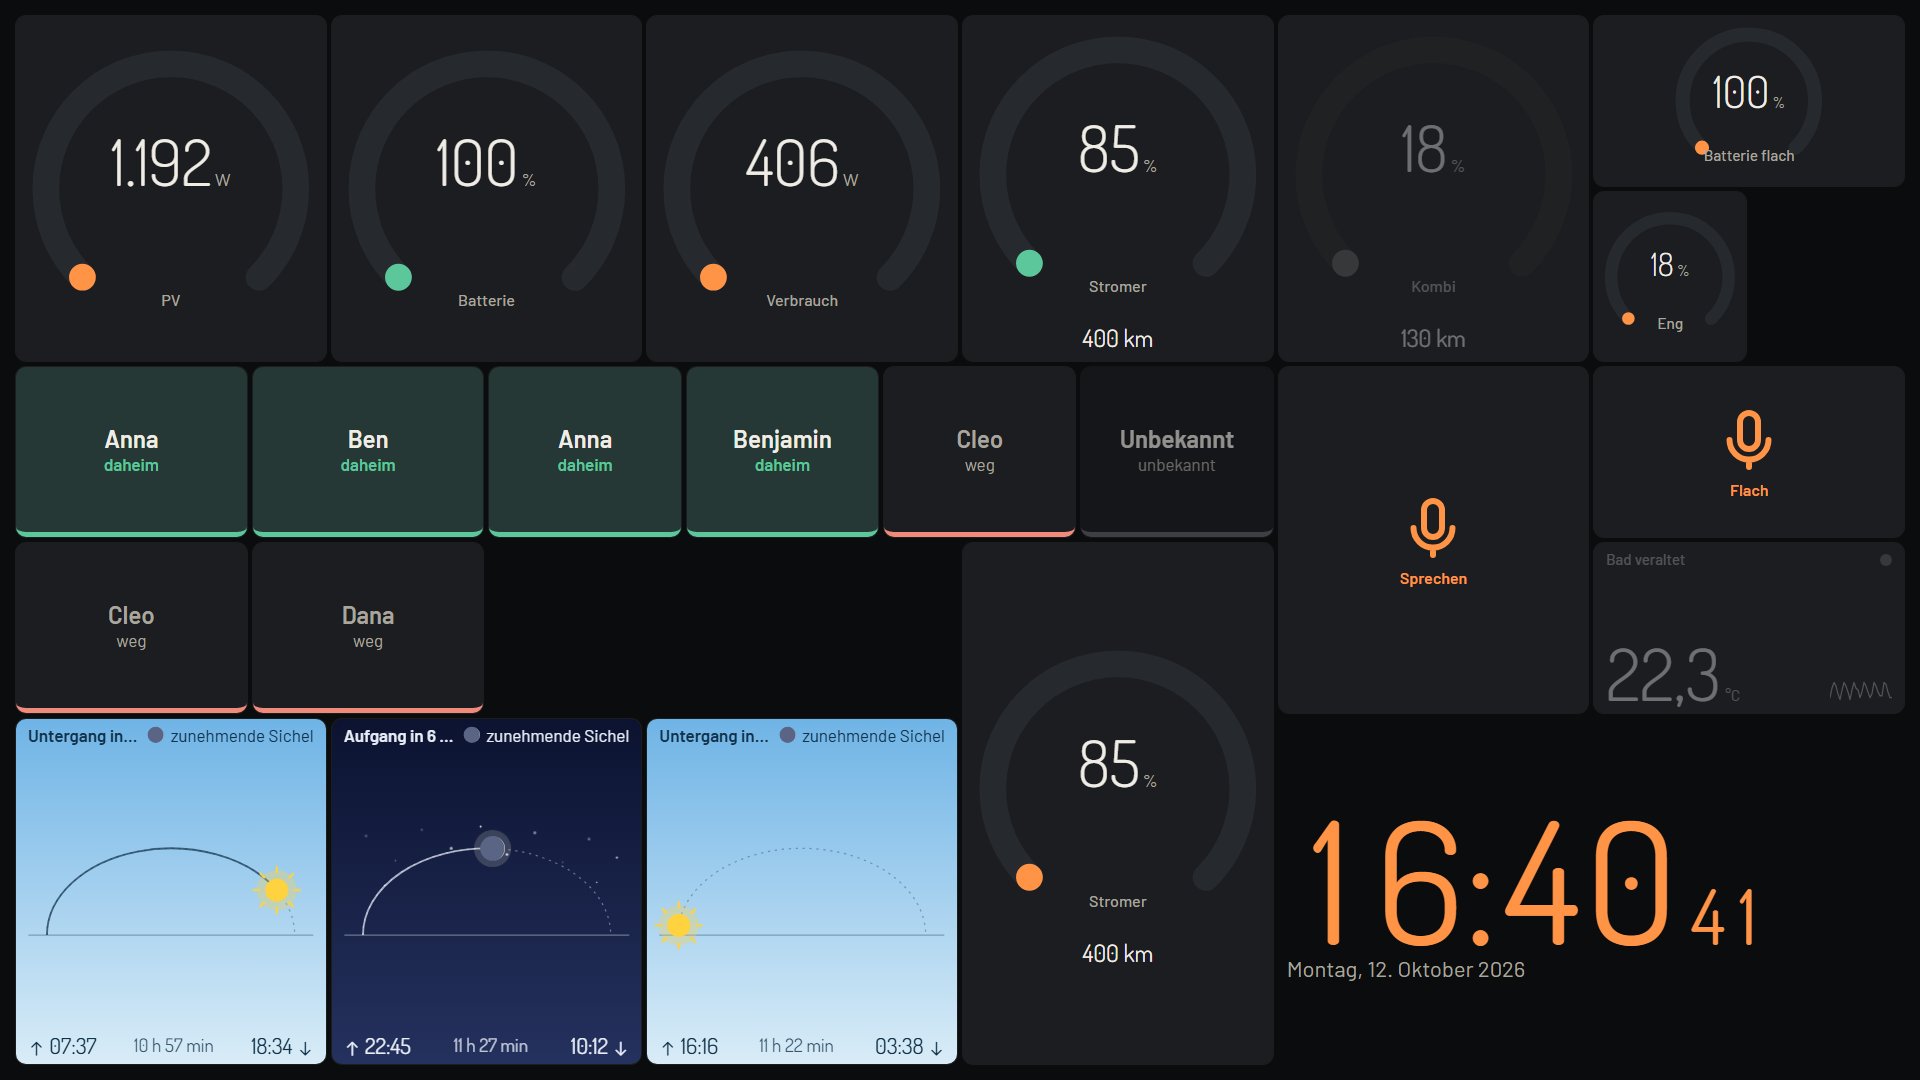
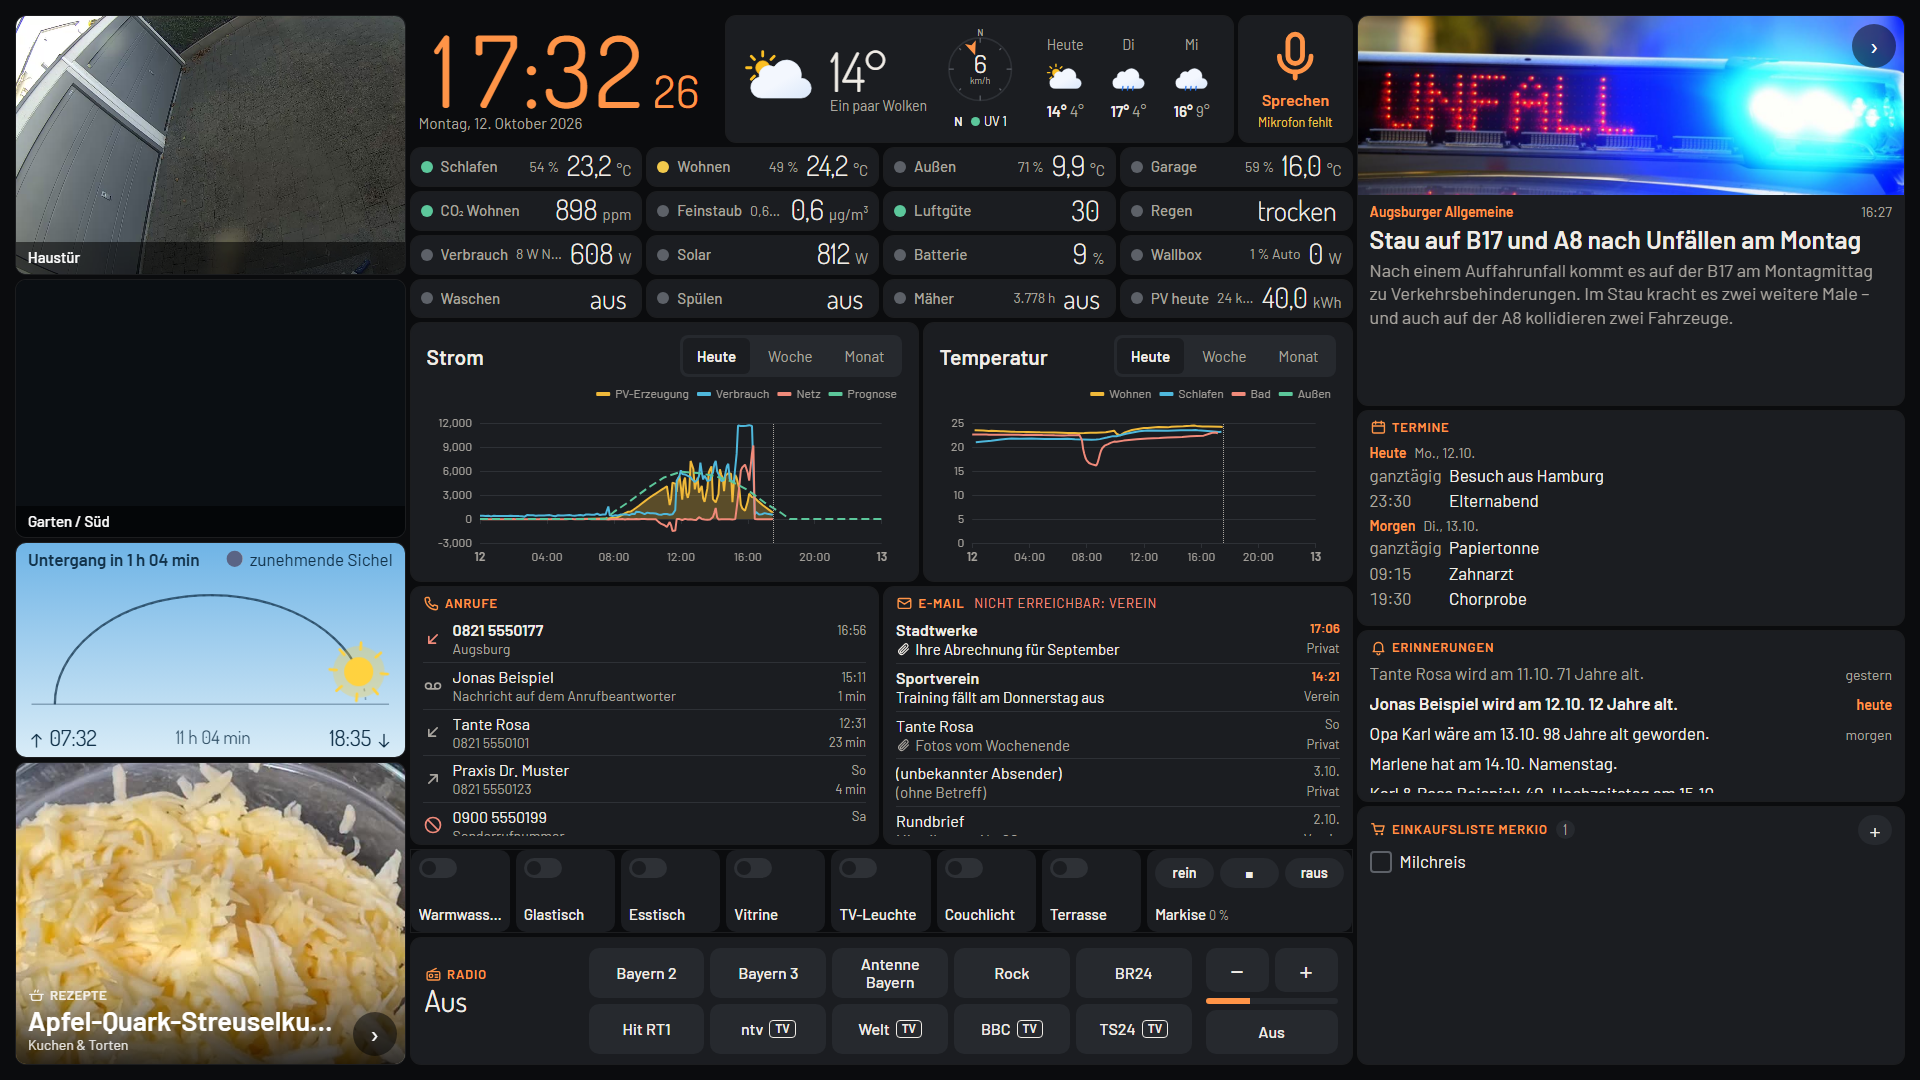
Screenshots of a real kitchen display; features name radio, TV, mail, cameras and egg timer

diff --git a/website/index.html b/website/index.html
@@ -26,7 +26,7 @@
           <a class="button plain" href="https://github.com/achrista/culinola">View on GitHub</a>
         </p>
       </div>
-      <img class="shot" src="images/dashboard-night.png" alt="Culinola dashboard with energy gauges, presence, sun and moon and a clock" width="1920" height="1080" />
+      <img class="shot" src="images/dashboard-night.png" alt="Culinola on a kitchen display: camera, clock, weather, readings, charts, calls, e-mail, switches, radio, news, calendar and shopping list" width="1920" height="1080" />
 
       <section id="features">
         <h2>Why Culinola</h2>
@@ -42,6 +42,10 @@
           <div class="card">
             <h3>Set up in the browser</h3>
             <p>Drag tiles into place, pick datapoints from a searchable list, add sources and credentials. Displays pick up every change without a restart.</p>
+          </div>
+          <div class="card">
+            <h3>More than a smart-home panel</h3>
+            <p>Internet radio and live TV, your cameras, the newest e-mails, calls from the FRITZ!Box and an egg timer on the clock are built in.</p>
           </div>
           <div class="card">
             <h3>Made for the whole family</h3>
@@ -66,7 +70,7 @@
             <figcaption>Layout editor – move, resize, add and configure tiles on a true-to-scale preview.</figcaption>
           </figure>
           <figure>
-            <img class="shot" src="images/dashboard.png" alt="Dashboard in the light theme" width="1920" height="1080" loading="lazy" />
+            <img class="shot" src="images/dashboard.png" alt="The same kitchen display in a light theme" width="1920" height="1080" loading="lazy" />
             <figcaption>Six colour themes, with an automatic switch at sunset.</figcaption>
           </figure>
           <figure>
@@ -78,7 +82,7 @@
             <figcaption>Settings – language, themes, on-screen messages and access tokens.</figcaption>
           </figure>
         </div>
-        <p>The screenshots show the built-in test instance with made-up values.</p>
+        <p>The kitchen display shows a real installation; calls, e-mails, appointments and reminders in it are made up. The setup pages show the built-in test instance.</p>
       </section>
 
       <section id="start">

diff --git a/README.md b/README.md
@@ -2,13 +2,14 @@
 
 **The home dashboard for the screen in your kitchen.** Culinola brings your house, your media and your family's day together on one touch display: readings and switches, charts, cameras, radio and TV, news, calendar, shopping list and recipes – arranged the way you want, without writing a line of configuration.
 
-![Culinola dashboard with energy gauges, presence, sun and moon and clock](docs/images/dashboard-night.png)
+![Culinola on a kitchen display: camera, clock, weather, readings, charts, calls, e-mail, switches, radio, news, calendar and shopping list](docs/images/dashboard-night.png)
 
 ## Why Culinola
 
 - **One screen, everything at a glance.** No scrolling, no menus: a grid of tiles that fills the display and scales with it.
 - **Works with what you have.** openHAB, Home Assistant, Homematic, MQTT (Tasmota, Zigbee2MQTT …), FRITZ!Box, IMAP mail, Google Calendar, RSS, go2rtc cameras – each is a plugin, and a tile does not care which system a value comes from.
 - **Set up in the browser.** Drag tiles into place, pick datapoints from a searchable list, add sources and credentials, create access tokens – from your desk or your phone, while the kitchen display keeps running and picks up every change without a restart.
+- **More than a smart-home panel.** Internet radio and live TV, your cameras, the newest e-mails, calls from the FRITZ!Box and an egg timer on the clock are built in – no extra apps, no extra screens.
 - **Made for touch and for the whole family.** Tap the clock for an egg timer, tap a recipe to cook from it, put its ingredients on the shopping list, ask by voice how warm it is outside.
 - **Yours.** Runs on your own hardware, in your own network. The source is open to read and change, and free for private and other noncommercial use.
 
@@ -16,10 +17,10 @@
 
 | | |
 |---|---|
-| ![Dashboard in the light theme](docs/images/dashboard.png) **Themes** – six colour themes, with an automatic switch at sunset. | ![Layout editor with tiles and the list of tile types](docs/images/layout-editor.png) **Layout editor** – move, resize, add and configure tiles on a true-to-scale preview. |
+| ![The same kitchen display in a light theme](docs/images/dashboard.png) **Themes** – six colour themes, with an automatic switch at sunset. | ![Layout editor with tiles and the list of tile types](docs/images/layout-editor.png) **Layout editor** – move, resize, add and configure tiles on a true-to-scale preview. |
 | ![List of sources with their state](docs/images/sources.png) **Sources** – add and configure connections; each one restarts on its own and tells you what it found. | ![Settings for display, messages and access](docs/images/settings.png) **Settings** – language, themes, on-screen messages and access tokens. |
 
-The screenshots show the built-in test instance with made-up values.
+The kitchen display shows a real installation; calls, e-mails, appointments and reminders in it are made up. The setup pages show the built-in test instance.
 
 ## What is in the box
 
